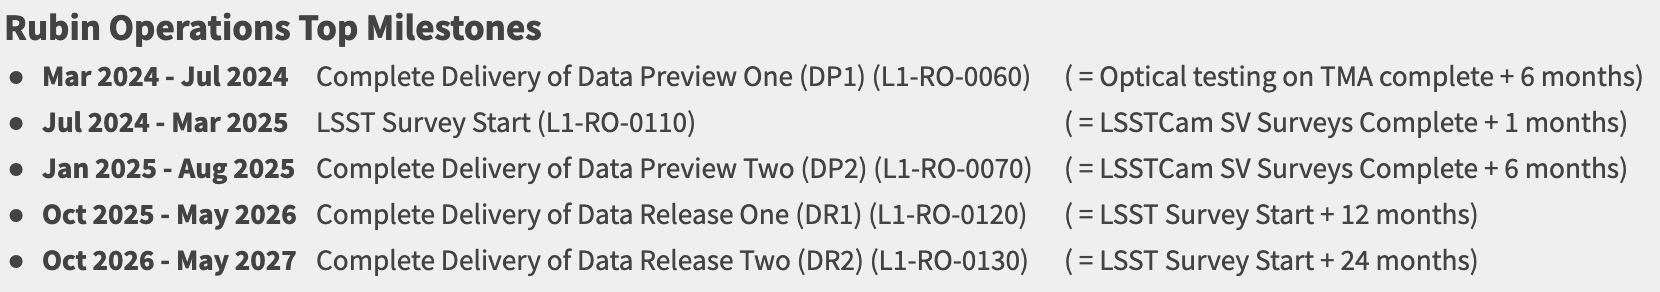
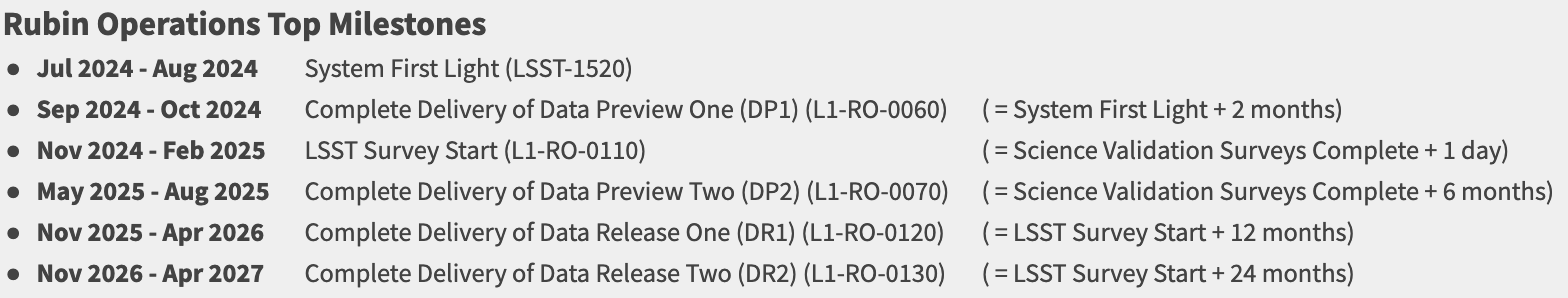
Updated milestones, timeline, data products summary, and accompanying text

Changed region(s): [[0.0, 0.339, 1.0, 0.9555], [0.0, 0.1849, 1.0, 0.3082], [0.0, 0.0308, 0.3438, 0.1541]]

diff --git a/timeline.tex b/timeline.tex
@@ -3,47 +3,31 @@
 The timeline shown in Table~\ref{tab:milestones} below provides a list of key dates related to the \es program.
 It will be updated with more dates related to the development of the \esp as they are defined.
 
-The date ranges in the Table are derived from the ``Celebratory Milestones'' list published at monthly intervals on the Rubin Project website;\footnote{\url{https://www.lsst.org/about/project-status}} shown here are the milestones as of October 2022, which use Project controls data from August 2022.
+The date ranges in the Table are derived from the ``Celebratory Milestones'' list published at monthly intervals on the Rubin Project website;\footnote{\url{https://www.lsst.org/about/project-status}} shown here are the milestones as of December 2022, which use Project controls data from October 2022.
 
 Milestone dates are given as min-max ranges to indicate their uncertainty.
 Typically the near date corresponds to the current Project forecast, plus any additional operational uncertainty.
-The late date corresponds (approximately) to the current Project ``late date'' plus any additional operational uncertainty: this late date cannot be surpassed without the Project rebaselining its schedule.
+The late date corresponds (approximately) to the current Project ``late date'' plus any additional operational uncertainty: this late date cannot be surpassed without the Project re-baselining its schedule.
 
 The late dates for the DP2 and DR1 data release milestones allow for the possibility that the Project completes within its late date, but in doing so reduces the amount of on-sky LSST Cam commissioning time.
 {\it In this eventuality, the operations team would spend up to 3 months at the start of the full/survey operations phase completing any remaining Science Validation Survey observations, such that DP2 could be realized as planned.}
 The LSST survey will start shortly after the completion of the SV surveys.
 
-As can be seen in the table, the LSST survey is currently expected to start sometime between mid-2024 and early 2025.
-The timing of the Commissioning observations is somewhat less uncertain, but the timing of the release of those data to the community can only be projected to within 6 months at the time of writing (October 2022).
+As can be seen in the table, the LSST survey is currently expected to start sometime between late-2024 and early 2025.
+The timing of the Commissioning observations is somewhat less uncertain: the timing of the release of those data to the community can be projected to within a few months at the time of writing (December 2022).
 
 An intermediate (typically mid-range) date is used by the Rubin Operations teams for planning purposes. These nominal dates are illustrated in the timeline chart in Figure~\ref{fig:timeline} below.
+
+DP0.3, whose release is being planned for mid-2023, will be added to Table~\ref{tab:milestones} and Figure~\ref{fig:timeline} in the next revision of this technote. 
 
 \begin{table}
 \label{tab:milestones}
 \includegraphics[width=\linewidth]{figures/DPR-milestones}
-\caption{Top milestones for the \es program, as of October 2022.}
+\caption{Top milestones for the \es program, as of December 2022.}
 \end{table}
 
 \begin{figure}
 \includegraphics[width=\linewidth]{figures/DPR-timeline}
-\caption{Nominal data preview and data release dates, as of October 2022.}
+\caption{Nominal data preview and data release dates, as of December 2022.}
 \label{fig:timeline}
 \end{figure}
-
-% \textbf{2021-11-12:} Issue first version of the \ro Plans for an \esp.
-%
-% \textbf{2023-01-20:} Commissioning Camera (ComCam) on sky, engineering first light.
-%
-% \textbf{2023-07-01:} LSST Science Camera (LSSTCam) on sky.
-%
-% \textbf{2023-10-01:} Start of the \svs.
-%
-% \textbf{2023-12-18:} Current earliest completion date for construction.
-%
-% \textbf{2024-07-01:} Current latest completion date for construction.
-%
-% \textbf{2024-04-01:} Planned start of Operations Phase.
-%
-% \textbf{2024-04/09:} Current forecast date for Data Preview 2, LSSTCam On-Sky Data.
-%
-% \textbf{2025-02/07:} Current forecast date for Data Release 1.
